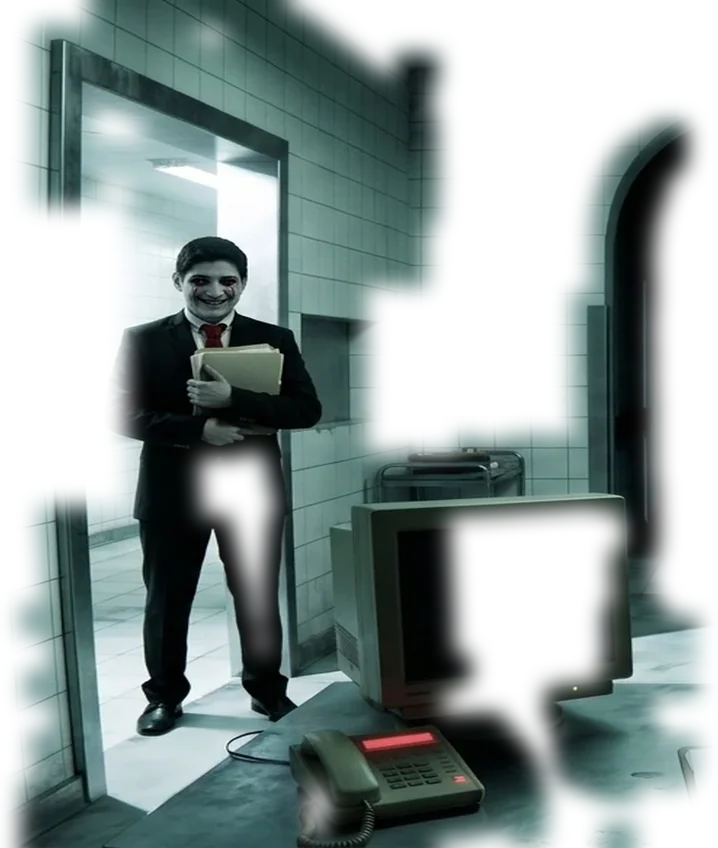
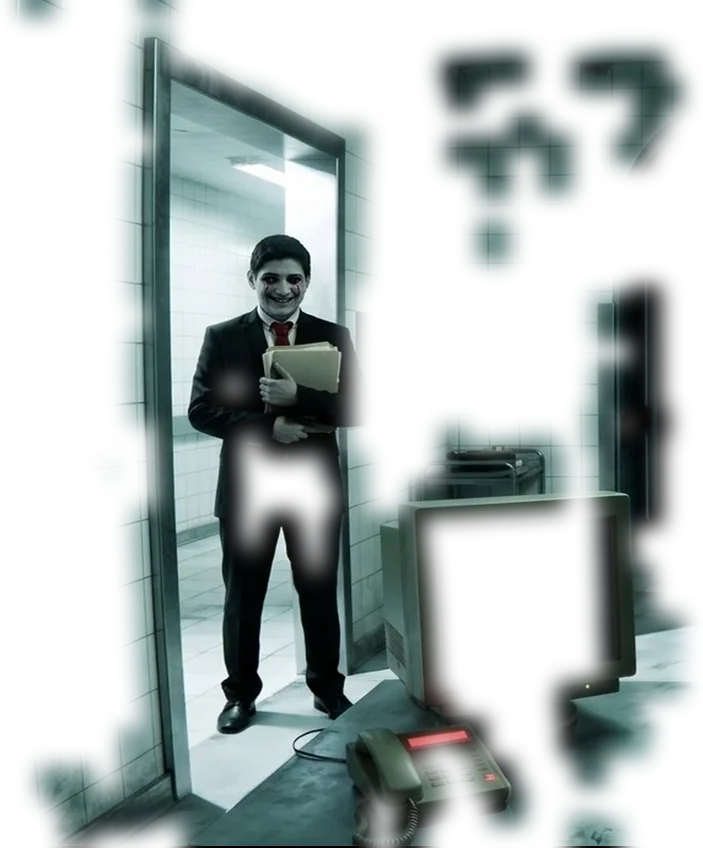
Ofis versiyonları: yatay+dikey otomatik hizalama (kapı kayması düzeldi), kapsanmayan kenarlar sayılmıyor

diff --git a/tools/variants.py b/tools/variants.py
@@ -31,28 +31,51 @@ KEEP = [
 FEATHER = 10     # kenar yumuşatma (px)
 
 
+def _place(g, sx, sy, dx, dy, W_, H_):
+    """g'yi (sx, sy) ölçekleyip (dx, dy) kaydırarak W_xH_ tuvale koyar."""
+    G = g.resize((max(1, round(g.size[0] * sx)), max(1, round(g.size[1] * sy))), Image.LANCZOS)
+    out = Image.new(g.mode, (W_, H_)); out.paste(G, (dx, dy)); return out
+
+
 def fit(im, base=None):
-    """2000x848'e getirir. Flow gibi araçlar görüntüyü 16:9'a ESNETİR (yeniden çizmez):
-    o durumda genişliği 2000 yapıp dikey ölçek/kaymayı ofisle en iyi örtüşecek şekilde arar."""
+    """2000x848'e getirir. Flow/Antigravity görüntüyü 16:9'a ESNETİP biraz kaydırabiliyor (yeniden çizmez):
+    o durumda yatay+dikey ölçek ve kaymayı ofisle en iyi örtüşecek şekilde arar (kaba->ince)."""
     w, h = im.size
-    if abs(w / h - W / H) < 0.01:
+    if base is None or abs(w / h - W / H) < 0.01 and base is None:
         return im.resize((W, H), Image.LANCZOS)
-    g = im.resize((W, round(h * W / w)), Image.LANCZOS)
-    if base is None:
-        return g.resize((W, H), Image.LANCZOS)
-    B = np.asarray(base.convert('L').resize((W // 4, H // 4)), float)
-    best = None
-    for sy in np.arange(0.70, 0.86, 0.005):
-        gh = round(g.size[1] * sy)
-        G = np.asarray(g.convert('L').resize((W // 4, gh // 4)), float)
-        for dy in range(-12, 13):          # 4x küçültülmüş ölçekte (gerçekte -48..48 px)
-            if dy > 0 or -dy + H // 4 > G.shape[0]: continue
-            e = np.abs(G[-dy:-dy + H // 4, :] - B).mean()
-            if best is None or e < best[0]: best = (e, sy, dy * 4)
-    _, sy, dy = best
-    G = g.resize((W, round(g.size[1] * sy)), Image.LANCZOS)
-    out = Image.new('RGB', (W, H)); out.paste(G, (0, dy))
-    print(f'  esnetilmiş görsel hizalandı: dikey ölçek {sy:.3f}, kayma {dy}px')
+    g0 = im.resize((W, round(h * W / w)), Image.LANCZOS)
+    def err(k, sx, sy, dx, dy, B, g):
+        P = np.asarray(_place(g, sx, sy, round(dx / k), round(dy / k), B.shape[1], B.shape[0]), float)
+        m = P > 0
+        return np.abs(P - B)[m].mean() if m.mean() > .7 else 1e9
+    # 1) hızlı kaba arama: satır ve sütun ortalama profilleri (1B) ile eksenleri ayrı ayrı hizala
+    Bf = np.asarray(base.convert('L'), float); Gf = np.asarray(g0.convert('L'), float)
+    def fit1d(pb, pg, scales, shifts):
+        best1 = None
+        for sc in scales:
+            n = round(len(pg) * sc); q = np.interp(np.linspace(0, len(pg) - 1, n), np.arange(len(pg)), pg)
+            for sh in shifts:
+                lo, hi = max(0, sh), min(len(pb), sh + n)
+                if hi - lo < len(pb) * .85: continue
+                e = np.abs(pb[lo:hi] - q[lo - sh:hi - sh]).mean()
+                if best1 is None or e < best1[0]: best1 = (e, sc, sh)
+        return best1
+    _, sy0, dy0 = fit1d(Bf.mean(1), Gf.mean(1), np.arange(.66, .90, .0025), range(-120, 121, 2))
+    _, sx0, dx0 = fit1d(Bf.mean(0), Gf.mean(0), np.arange(.78, 1.22, .0025), range(-260, 261, 2))
+    best = (1e9, sx0, sy0, dx0, dy0)
+    _, sx0, sy0, dx0, dy0 = best
+    k = 4; B = np.asarray(base.convert('L').resize((W // k, H // k)), float); g = g0.convert('L').resize((W // k, g0.size[1] // k))
+    for sx in np.arange(sx0 - .02, sx0 + .021, .005):
+        for sy in np.arange(sy0 - .01, sy0 + .011, .0025):
+            for dx in range(dx0 - 16, dx0 + 17, 4):
+                for dy in range(dy0 - 16, dy0 + 17, 4):
+                    e = err(k, sx, sy, dx, dy, B, g)
+                    if e < best[0]: best = (e, sx, sy, dx, dy)
+    e, sx, sy, dx, dy = best
+    print(f'  hizalandı: ölçek x{sx:.3f} y{sy:.3f}, kayma ({dx},{dy}) px, hata {e:.1f}')
+    out = _place(g0, sx, sy, dx, dy, W, H)
+    cov = _place(Image.new('L', g0.size, 255), sx, sy, dx, dy, W, H)   # görselin kapsadığı alan
+    out.info['coverage'] = cov
     return out
 
 
@@ -65,7 +88,9 @@ def mask_for(img, base, zone):
     a = a - (a[outside].mean(0) - b[outside].mean(0)).astype(np.int16)
     d = np.abs(a - b).max(2)
     m = np.zeros((H, W), np.uint8); m[y0:y1, x0:x1] = (d[y0:y1, x0:x1] > THRESH) * 255
-    mi = Image.fromarray(m)
+    cov = img.info.get('coverage')
+    if cov is not None: m = m * (np.asarray(cov.filter(ImageFilter.MinFilter(9))) > 0)   # kenardaki boş şerit sayılmaz
+    mi = Image.fromarray(m.astype(np.uint8))
     mi = mi.filter(ImageFilter.MinFilter(5)).filter(ImageFilter.MaxFilter(31))   # benekleri at, deliği kapat
     mi = mi.filter(ImageFilter.MaxFilter(9)).filter(ImageFilter.MinFilter(9))    # kenarı toparla
     d = ImageDraw.Draw(mi)
